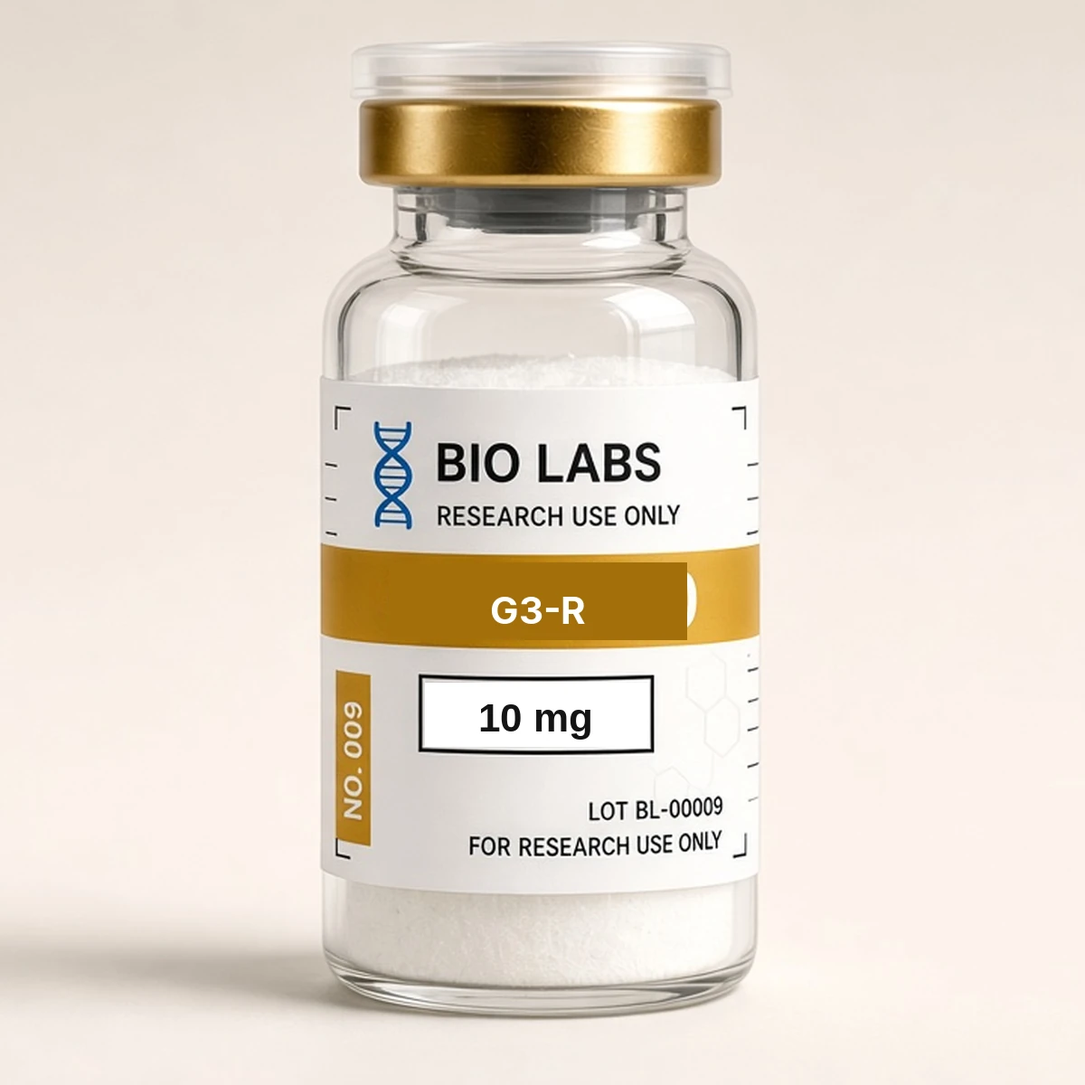
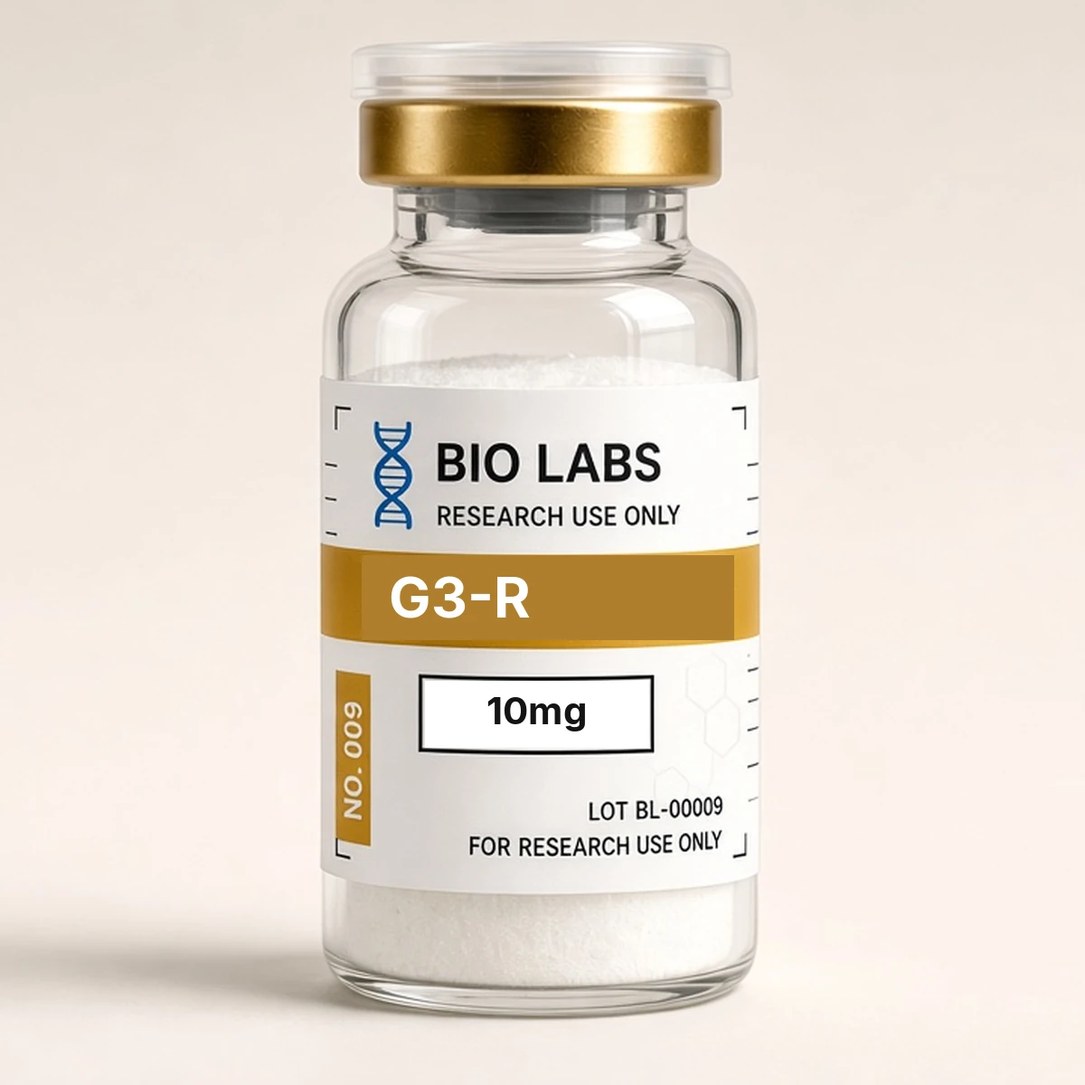
fix: GLOW-chrome G3-R band for Marketing Soft-QA
Indian Soft-QA: gold-band text on the live GLOW-chrome vial must be
G3-R (not R3TA/Retatrutide). Catalog/PDP master and 10/20/50 dose
variants are rebuilt from the GLOW-70 chrome (gold cap, BIO LABS,
gold band). Public path is vial-g3-r.png/.webp — no vial-retatrutide
public band.

PDP size-chip and mg-picker keep alt G3-R {dose} research vial.
Tip stays v2.99c (folded with calculator-seo-finish). Asset ?v=184.

Shared-script cache bust only: mg-picker, qty-upsell, cart-vial,
search-overlay, product-marquee.

Changed region(s): [[0.3083, 0.4933, 0.6783, 0.6167], [0.4317, 0.6475, 0.555, 0.6783]]

diff --git a/html/index.html b/html/index.html
@@ -205,7 +205,7 @@
 <article class="product-card" data-name="Ipamorelin" data-slug="ipamorelin" data-price="80" data-stock="in" data-docs="on-request" data-category="Cellular Signaling Research" data-badge="New"><div class="product-card-media" data-href="/products/ipamorelin"><div class="product-card-badge">New</div><div class="product-card-img"><img sizes="(max-width: 800px) 45vw, 200px" src="/media/vial-ipamorelin.webp?v=181" alt="Ipamorelin 10 mg research vial" loading="lazy" decoding="async" width="400" height="400" onerror="this.onerror=null;this.src='/media/vial-fallback.webp';"></div></div><div class="product-card-body"><p class="product-card-cat">Cellular Signaling Research</p><a class="product-card-name" href="/products/ipamorelin" title="Ipamorelin">Ipamorelin</a><div class="product-card-strengths"><span class="product-card-mg size-chip dose-chip">10 mg</span></div><p class="product-card-tagline" title="Selective GHRP Research Peptide">Selective GHRP Research Peptide</p><div class="product-card-row"><div class="product-card-prices"><span class="product-card-price">$80</span></div></div><p class="product-card-trust"><span class="product-card-trust-item"><svg class="product-card-trust-ico" viewBox="0 0 16 16" width="14" height="14" aria-hidden="true"><circle cx="8" cy="8" r="6.25" fill="none" stroke="currentColor" stroke-width="1.4"/><path fill="none" stroke="currentColor" stroke-width="1.4" stroke-linecap="round" stroke-linejoin="round" d="M5 8.1l2.1 2.1L11.2 5.8"/></svg><span>COA on request</span></span><span class="product-card-trust-item"><svg class="product-card-trust-ico" viewBox="0 0 16 16" width="14" height="14" aria-hidden="true"><circle cx="8" cy="8" r="6.25" fill="none" stroke="currentColor" stroke-width="1.4"/><path fill="none" stroke="currentColor" stroke-width="1.4" stroke-linecap="round" stroke-linejoin="round" d="M5 8.1l2.1 2.1L11.2 5.8"/></svg><span>Lot-specific</span></span></p><div class="product-card-actions"><a class="product-card-view" href="/products/ipamorelin">View details<svg class="product-card-view-ico" viewBox="0 0 16 16" width="14" height="14" aria-hidden="true"><path fill="none" stroke="currentColor" stroke-width="1.6" stroke-linecap="round" stroke-linejoin="round" d="M6 3.5L11 8l-5 4.5"/></svg></a><button type="button" class="product-card-atc" data-name="Ipamorelin" data-price="80" data-img="/media/vial-ipamorelin.png?v=181" data-slug="ipamorelin"><svg class="product-card-atc-ico" viewBox="0 0 24 24" width="15" height="15" aria-hidden="true"><path fill="none" stroke="currentColor" stroke-width="1.8" stroke-linecap="round" stroke-linejoin="round" d="M6 6h15l-1.5 9h-12L5 3H2"/><circle cx="9" cy="20" r="1.4" fill="currentColor"/><circle cx="18" cy="20" r="1.4" fill="currentColor"/></svg>ADD TO CART</button></div></div></article>
 <article class="product-card" data-name="Semaglutide" data-slug="semaglutide" data-price="60" data-stock="in" data-docs="on-request" data-category="Metabolic Research" data-badge="New"><div class="product-card-media" data-href="/products/semaglutide"><div class="product-card-badge">New</div><div class="product-card-img"><img sizes="(max-width: 800px) 45vw, 200px" src="/media/vial-semaglutide.webp?v=175" alt="Semaglutide 5 mg research vial" loading="lazy" decoding="async" width="400" height="400" onerror="this.onerror=null;this.src='/media/vial-fallback.webp';"></div></div><div class="product-card-body"><p class="product-card-cat">Metabolic Research</p><a class="product-card-name" href="/products/semaglutide" title="Semaglutide">Semaglutide</a><div class="product-card-strengths"><span class="product-card-mg size-chip dose-chip">5 mg</span><span class="product-card-mg size-chip dose-chip">10 mg</span></div><p class="product-card-tagline" title="Incretin-Pathway Research Peptide">Incretin-Pathway Research Peptide</p><div class="product-card-row"><div class="product-card-prices"><span class="product-card-from">From</span> <span class="product-card-price">$60</span></div></div><p class="product-card-trust"><span class="product-card-trust-item"><svg class="product-card-trust-ico" viewBox="0 0 16 16" width="14" height="14" aria-hidden="true"><circle cx="8" cy="8" r="6.25" fill="none" stroke="currentColor" stroke-width="1.4"/><path fill="none" stroke="currentColor" stroke-width="1.4" stroke-linecap="round" stroke-linejoin="round" d="M5 8.1l2.1 2.1L11.2 5.8"/></svg><span>COA on request</span></span><span class="product-card-trust-item"><svg class="product-card-trust-ico" viewBox="0 0 16 16" width="14" height="14" aria-hidden="true"><circle cx="8" cy="8" r="6.25" fill="none" stroke="currentColor" stroke-width="1.4"/><path fill="none" stroke="currentColor" stroke-width="1.4" stroke-linecap="round" stroke-linejoin="round" d="M5 8.1l2.1 2.1L11.2 5.8"/></svg><span>Lot-specific</span></span></p><div class="product-card-actions"><a class="product-card-view" href="/products/semaglutide">View details<svg class="product-card-view-ico" viewBox="0 0 16 16" width="14" height="14" aria-hidden="true"><path fill="none" stroke="currentColor" stroke-width="1.6" stroke-linecap="round" stroke-linejoin="round" d="M6 3.5L11 8l-5 4.5"/></svg></a><button type="button" class="product-card-atc" data-name="Semaglutide" data-price="60" data-img="/media/vial-semaglutide.png?v=175" data-slug="semaglutide"><svg class="product-card-atc-ico" viewBox="0 0 24 24" width="15" height="15" aria-hidden="true"><path fill="none" stroke="currentColor" stroke-width="1.8" stroke-linecap="round" stroke-linejoin="round" d="M6 6h15l-1.5 9h-12L5 3H2"/><circle cx="9" cy="20" r="1.4" fill="currentColor"/><circle cx="18" cy="20" r="1.4" fill="currentColor"/></svg>ADD TO CART</button></div></div></article>
 <article class="product-card" data-name="Tirzepatide" data-slug="tirzepatide" data-price="90" data-stock="in" data-docs="on-request" data-category="Metabolic Research" data-badge="New"><div class="product-card-media" data-href="/products/tirzepatide"><div class="product-card-badge">New</div><div class="product-card-img"><img sizes="(max-width: 800px) 45vw, 200px" src="/media/vial-tirzepatide.webp?v=175" alt="Tirzepatide 10 mg research vial" loading="lazy" decoding="async" width="400" height="400" onerror="this.onerror=null;this.src='/media/vial-fallback.webp';"></div></div><div class="product-card-body"><p class="product-card-cat">Metabolic Research</p><a class="product-card-name" href="/products/tirzepatide" title="Tirzepatide">Tirzepatide</a><div class="product-card-strengths"><span class="product-card-mg size-chip dose-chip">10 mg</span></div><p class="product-card-tagline" title="Dual Incretin Receptor Research Agonist">Dual Incretin Receptor Research Agonist</p><div class="product-card-row"><div class="product-card-prices"><span class="product-card-price">$90</span></div></div><p class="product-card-trust"><span class="product-card-trust-item"><svg class="product-card-trust-ico" viewBox="0 0 16 16" width="14" height="14" aria-hidden="true"><circle cx="8" cy="8" r="6.25" fill="none" stroke="currentColor" stroke-width="1.4"/><path fill="none" stroke="currentColor" stroke-width="1.4" stroke-linecap="round" stroke-linejoin="round" d="M5 8.1l2.1 2.1L11.2 5.8"/></svg><span>COA on request</span></span><span class="product-card-trust-item"><svg class="product-card-trust-ico" viewBox="0 0 16 16" width="14" height="14" aria-hidden="true"><circle cx="8" cy="8" r="6.25" fill="none" stroke="currentColor" stroke-width="1.4"/><path fill="none" stroke="currentColor" stroke-width="1.4" stroke-linecap="round" stroke-linejoin="round" d="M5 8.1l2.1 2.1L11.2 5.8"/></svg><span>Lot-specific</span></span></p><div class="product-card-actions"><a class="product-card-view" href="/products/tirzepatide">View details<svg class="product-card-view-ico" viewBox="0 0 16 16" width="14" height="14" aria-hidden="true"><path fill="none" stroke="currentColor" stroke-width="1.6" stroke-linecap="round" stroke-linejoin="round" d="M6 3.5L11 8l-5 4.5"/></svg></a><button type="button" class="product-card-atc" data-name="Tirzepatide" data-price="90" data-img="/media/vial-tirzepatide.png?v=175" data-slug="tirzepatide"><svg class="product-card-atc-ico" viewBox="0 0 24 24" width="15" height="15" aria-hidden="true"><path fill="none" stroke="currentColor" stroke-width="1.8" stroke-linecap="round" stroke-linejoin="round" d="M6 6h15l-1.5 9h-12L5 3H2"/><circle cx="9" cy="20" r="1.4" fill="currentColor"/><circle cx="18" cy="20" r="1.4" fill="currentColor"/></svg>ADD TO CART</button></div></div></article>
-<article class="product-card" data-name="G3-R" data-slug="g3-r" data-price="85" data-stock="out" data-docs="on-request" data-badge="New"><div class="product-card-media" data-href="/products/g3-r"><div class="product-card-badge">New</div><div class="product-card-img"><img sizes="(max-width: 800px) 45vw, 200px" src="/media/vial-g3-r.webp?v=183" alt="G3-R 10 mg research vial" loading="lazy" decoding="async" width="400" height="400" onerror="this.onerror=null;this.src='/media/vial-fallback.webp';"></div></div><div class="product-card-body"><p class="product-card-cat product-card-cat-spacer" aria-hidden="true">&nbsp;</p><a class="product-card-name" href="/products/g3-r" title="G3-R">G3-R</a><div class="product-card-strengths"><span class="product-card-mg size-chip dose-chip">10 mg</span><span class="product-card-mg size-chip dose-chip">20 mg</span><span class="product-card-mg size-chip dose-chip">50 mg</span></div><p class="product-card-tagline" title="Triple receptor agonist">Triple receptor agonist</p><div class="product-card-row"><div class="product-card-prices"><span class="product-card-from">From</span> <span class="product-card-price">$85</span></div></div><p class="product-card-trust"><span class="product-card-trust-item"><svg class="product-card-trust-ico" viewBox="0 0 16 16" width="14" height="14" aria-hidden="true"><circle cx="8" cy="8" r="6.25" fill="none" stroke="currentColor" stroke-width="1.4"/><path fill="none" stroke="currentColor" stroke-width="1.4" stroke-linecap="round" stroke-linejoin="round" d="M5 8.1l2.1 2.1L11.2 5.8"/></svg><span>COA on request</span></span><span class="product-card-trust-item"><svg class="product-card-trust-ico" viewBox="0 0 16 16" width="14" height="14" aria-hidden="true"><circle cx="8" cy="8" r="6.25" fill="none" stroke="currentColor" stroke-width="1.4"/><path fill="none" stroke="currentColor" stroke-width="1.4" stroke-linecap="round" stroke-linejoin="round" d="M5 8.1l2.1 2.1L11.2 5.8"/></svg><span>Lot-specific</span></span></p><div class="product-card-actions"><a class="product-card-view" href="/products/g3-r">View details<svg class="product-card-view-ico" viewBox="0 0 16 16" width="14" height="14" aria-hidden="true"><path fill="none" stroke="currentColor" stroke-width="1.6" stroke-linecap="round" stroke-linejoin="round" d="M6 3.5L11 8l-5 4.5"/></svg></a><button type="button" class="product-card-atc" data-name="G3-R" data-price="85" data-img="/media/vial-g3-r.png?v=183" data-slug="g3-r"><svg class="product-card-atc-ico" viewBox="0 0 24 24" width="15" height="15" aria-hidden="true"><path fill="none" stroke="currentColor" stroke-width="1.8" stroke-linecap="round" stroke-linejoin="round" d="M6 6h15l-1.5 9h-12L5 3H2"/><circle cx="9" cy="20" r="1.4" fill="currentColor"/><circle cx="18" cy="20" r="1.4" fill="currentColor"/></svg>ADD TO CART</button></div></div></article><article class="product-card" data-name="BPC-157 / TB-500 Blend" data-slug="bpc-157-tb-500-blend" data-price="125" data-stock="in" data-docs="on-request" data-category="Cellular Signaling Research" data-badge="Best Seller"><div class="product-card-media" data-href="/products/bpc-157-tb-500-blend"><div class="product-card-badge">Best Seller</div><div class="product-card-img"><img sizes="(max-width: 800px) 45vw, 200px" src="/media/vial-bpc-157-tb-500-blend.webp?v=181" alt="BPC-157 / TB-500 Blend 20 mg research vial" loading="lazy" decoding="async" width="400" height="400" onerror="this.onerror=null;this.src='/media/vial-fallback.webp';"></div></div><div class="product-card-body"><p class="product-card-cat">Cellular Signaling Research</p><a class="product-card-name" href="/products/bpc-157-tb-500-blend" title="BPC-157 / TB-500 Blend">BPC-157 / TB-500 Blend</a><div class="product-card-strengths"><span class="product-card-mg size-chip dose-chip">20 mg</span></div><p class="product-card-tagline" title="Dual-peptide signaling blend">Dual-peptide signaling blend</p><div class="product-card-row"><div class="product-card-prices"><span class="product-card-price">$125</span></div></div><p class="product-card-trust"><span class="product-card-trust-item"><svg class="product-card-trust-ico" viewBox="0 0 16 16" width="14" height="14" aria-hidden="true"><circle cx="8" cy="8" r="6.25" fill="none" stroke="currentColor" stroke-width="1.4"/><path fill="none" stroke="currentColor" stroke-width="1.4" stroke-linecap="round" stroke-linejoin="round" d="M5 8.1l2.1 2.1L11.2 5.8"/></svg><span>COA on request</span></span><span class="product-card-trust-item"><svg class="product-card-trust-ico" viewBox="0 0 16 16" width="14" height="14" aria-hidden="true"><circle cx="8" cy="8" r="6.25" fill="none" stroke="currentColor" stroke-width="1.4"/><path fill="none" stroke="currentColor" stroke-width="1.4" stroke-linecap="round" stroke-linejoin="round" d="M5 8.1l2.1 2.1L11.2 5.8"/></svg><span>Lot-specific</span></span></p><div class="product-card-actions"><a class="product-card-view" href="/products/bpc-157-tb-500-blend">View details<svg class="product-card-view-ico" viewBox="0 0 16 16" width="14" height="14" aria-hidden="true"><path fill="none" stroke="currentColor" stroke-width="1.6" stroke-linecap="round" stroke-linejoin="round" d="M6 3.5L11 8l-5 4.5"/></svg></a><button type="button" class="product-card-atc" data-name="BPC-157 / TB-500 Blend" data-price="125" data-img="/media/vial-bpc-157-tb-500-blend.png?v=181" data-slug="bpc-157-tb-500-blend"><svg class="product-card-atc-ico" viewBox="0 0 24 24" width="15" height="15" aria-hidden="true"><path fill="none" stroke="currentColor" stroke-width="1.8" stroke-linecap="round" stroke-linejoin="round" d="M6 6h15l-1.5 9h-12L5 3H2"/><circle cx="9" cy="20" r="1.4" fill="currentColor"/><circle cx="18" cy="20" r="1.4" fill="currentColor"/></svg>ADD TO CART</button></div></div></article>
+<article class="product-card" data-name="G3-R" data-slug="g3-r" data-price="85" data-stock="out" data-docs="on-request" data-badge="New"><div class="product-card-media" data-href="/products/g3-r"><div class="product-card-badge">New</div><div class="product-card-img"><img sizes="(max-width: 800px) 45vw, 200px" src="/media/vial-g3-r.webp?v=184" alt="G3-R 10 mg research vial" loading="lazy" decoding="async" width="400" height="400" onerror="this.onerror=null;this.src='/media/vial-fallback.webp';"></div></div><div class="product-card-body"><p class="product-card-cat product-card-cat-spacer" aria-hidden="true">&nbsp;</p><a class="product-card-name" href="/products/g3-r" title="G3-R">G3-R</a><div class="product-card-strengths"><span class="product-card-mg size-chip dose-chip">10 mg</span><span class="product-card-mg size-chip dose-chip">20 mg</span><span class="product-card-mg size-chip dose-chip">50 mg</span></div><p class="product-card-tagline" title="Triple receptor agonist">Triple receptor agonist</p><div class="product-card-row"><div class="product-card-prices"><span class="product-card-from">From</span> <span class="product-card-price">$85</span></div></div><p class="product-card-trust"><span class="product-card-trust-item"><svg class="product-card-trust-ico" viewBox="0 0 16 16" width="14" height="14" aria-hidden="true"><circle cx="8" cy="8" r="6.25" fill="none" stroke="currentColor" stroke-width="1.4"/><path fill="none" stroke="currentColor" stroke-width="1.4" stroke-linecap="round" stroke-linejoin="round" d="M5 8.1l2.1 2.1L11.2 5.8"/></svg><span>COA on request</span></span><span class="product-card-trust-item"><svg class="product-card-trust-ico" viewBox="0 0 16 16" width="14" height="14" aria-hidden="true"><circle cx="8" cy="8" r="6.25" fill="none" stroke="currentColor" stroke-width="1.4"/><path fill="none" stroke="currentColor" stroke-width="1.4" stroke-linecap="round" stroke-linejoin="round" d="M5 8.1l2.1 2.1L11.2 5.8"/></svg><span>Lot-specific</span></span></p><div class="product-card-actions"><a class="product-card-view" href="/products/g3-r">View details<svg class="product-card-view-ico" viewBox="0 0 16 16" width="14" height="14" aria-hidden="true"><path fill="none" stroke="currentColor" stroke-width="1.6" stroke-linecap="round" stroke-linejoin="round" d="M6 3.5L11 8l-5 4.5"/></svg></a><button type="button" class="product-card-atc" data-name="G3-R" data-price="85" data-img="/media/vial-g3-r.png?v=184" data-slug="g3-r"><svg class="product-card-atc-ico" viewBox="0 0 24 24" width="15" height="15" aria-hidden="true"><path fill="none" stroke="currentColor" stroke-width="1.8" stroke-linecap="round" stroke-linejoin="round" d="M6 6h15l-1.5 9h-12L5 3H2"/><circle cx="9" cy="20" r="1.4" fill="currentColor"/><circle cx="18" cy="20" r="1.4" fill="currentColor"/></svg>ADD TO CART</button></div></div></article><article class="product-card" data-name="BPC-157 / TB-500 Blend" data-slug="bpc-157-tb-500-blend" data-price="125" data-stock="in" data-docs="on-request" data-category="Cellular Signaling Research" data-badge="Best Seller"><div class="product-card-media" data-href="/products/bpc-157-tb-500-blend"><div class="product-card-badge">Best Seller</div><div class="product-card-img"><img sizes="(max-width: 800px) 45vw, 200px" src="/media/vial-bpc-157-tb-500-blend.webp?v=181" alt="BPC-157 / TB-500 Blend 20 mg research vial" loading="lazy" decoding="async" width="400" height="400" onerror="this.onerror=null;this.src='/media/vial-fallback.webp';"></div></div><div class="product-card-body"><p class="product-card-cat">Cellular Signaling Research</p><a class="product-card-name" href="/products/bpc-157-tb-500-blend" title="BPC-157 / TB-500 Blend">BPC-157 / TB-500 Blend</a><div class="product-card-strengths"><span class="product-card-mg size-chip dose-chip">20 mg</span></div><p class="product-card-tagline" title="Dual-peptide signaling blend">Dual-peptide signaling blend</p><div class="product-card-row"><div class="product-card-prices"><span class="product-card-price">$125</span></div></div><p class="product-card-trust"><span class="product-card-trust-item"><svg class="product-card-trust-ico" viewBox="0 0 16 16" width="14" height="14" aria-hidden="true"><circle cx="8" cy="8" r="6.25" fill="none" stroke="currentColor" stroke-width="1.4"/><path fill="none" stroke="currentColor" stroke-width="1.4" stroke-linecap="round" stroke-linejoin="round" d="M5 8.1l2.1 2.1L11.2 5.8"/></svg><span>COA on request</span></span><span class="product-card-trust-item"><svg class="product-card-trust-ico" viewBox="0 0 16 16" width="14" height="14" aria-hidden="true"><circle cx="8" cy="8" r="6.25" fill="none" stroke="currentColor" stroke-width="1.4"/><path fill="none" stroke="currentColor" stroke-width="1.4" stroke-linecap="round" stroke-linejoin="round" d="M5 8.1l2.1 2.1L11.2 5.8"/></svg><span>Lot-specific</span></span></p><div class="product-card-actions"><a class="product-card-view" href="/products/bpc-157-tb-500-blend">View details<svg class="product-card-view-ico" viewBox="0 0 16 16" width="14" height="14" aria-hidden="true"><path fill="none" stroke="currentColor" stroke-width="1.6" stroke-linecap="round" stroke-linejoin="round" d="M6 3.5L11 8l-5 4.5"/></svg></a><button type="button" class="product-card-atc" data-name="BPC-157 / TB-500 Blend" data-price="125" data-img="/media/vial-bpc-157-tb-500-blend.png?v=181" data-slug="bpc-157-tb-500-blend"><svg class="product-card-atc-ico" viewBox="0 0 24 24" width="15" height="15" aria-hidden="true"><path fill="none" stroke="currentColor" stroke-width="1.8" stroke-linecap="round" stroke-linejoin="round" d="M6 6h15l-1.5 9h-12L5 3H2"/><circle cx="9" cy="20" r="1.4" fill="currentColor"/><circle cx="18" cy="20" r="1.4" fill="currentColor"/></svg>ADD TO CART</button></div></div></article>
 <article class="product-card" data-name="NAD+" data-slug="nad-plus" data-price="99" data-stock="in" data-docs="on-request" data-category="Biochemical Reference Standards" data-badge="Popular"><div class="product-card-media" data-href="/products/nad-plus"><div class="product-card-badge">Popular</div><div class="product-card-img"><img sizes="(max-width: 800px) 45vw, 200px" src="/media/vial-nad-plus.webp?v=181" alt="NAD+ 500 mg research vial" loading="lazy" decoding="async" width="400" height="400" onerror="this.onerror=null;this.src='/media/vial-fallback.webp';"></div></div><div class="product-card-body"><p class="product-card-cat">Biochemical Reference Standards</p><a class="product-card-name" href="/products/nad-plus" title="NAD+">NAD+</a><div class="product-card-strengths"><span class="product-card-mg size-chip dose-chip">500 mg</span><span class="product-card-mg size-chip dose-chip">1000 mg</span></div><p class="product-card-tagline" title="Mitochondrial Energy Coenzyme">Mitochondrial Energy Coenzyme</p><div class="product-card-row"><div class="product-card-prices"><span class="product-card-from">From</span> <span class="product-card-price">$99</span></div></div><p class="product-card-trust"><span class="product-card-trust-item"><svg class="product-card-trust-ico" viewBox="0 0 16 16" width="14" height="14" aria-hidden="true"><circle cx="8" cy="8" r="6.25" fill="none" stroke="currentColor" stroke-width="1.4"/><path fill="none" stroke="currentColor" stroke-width="1.4" stroke-linecap="round" stroke-linejoin="round" d="M5 8.1l2.1 2.1L11.2 5.8"/></svg><span>COA on request</span></span><span class="product-card-trust-item"><svg class="product-card-trust-ico" viewBox="0 0 16 16" width="14" height="14" aria-hidden="true"><circle cx="8" cy="8" r="6.25" fill="none" stroke="currentColor" stroke-width="1.4"/><path fill="none" stroke="currentColor" stroke-width="1.4" stroke-linecap="round" stroke-linejoin="round" d="M5 8.1l2.1 2.1L11.2 5.8"/></svg><span>Lot-specific</span></span></p><div class="product-card-actions"><a class="product-card-view" href="/products/nad-plus">View details<svg class="product-card-view-ico" viewBox="0 0 16 16" width="14" height="14" aria-hidden="true"><path fill="none" stroke="currentColor" stroke-width="1.6" stroke-linecap="round" stroke-linejoin="round" d="M6 3.5L11 8l-5 4.5"/></svg></a><button type="button" class="product-card-atc" data-name="NAD+" data-price="99" data-img="/media/vial-nad-plus.png?v=181" data-slug="nad-plus"><svg class="product-card-atc-ico" viewBox="0 0 24 24" width="15" height="15" aria-hidden="true"><path fill="none" stroke="currentColor" stroke-width="1.8" stroke-linecap="round" stroke-linejoin="round" d="M6 6h15l-1.5 9h-12L5 3H2"/><circle cx="9" cy="20" r="1.4" fill="currentColor"/><circle cx="18" cy="20" r="1.4" fill="currentColor"/></svg>ADD TO CART</button></div></div></article>
 <article class="product-card" data-name="AOD-9604" data-slug="aod-9604" data-price="42" data-stock="in" data-docs="on-request" data-category="Metabolic Pathway Research"><div class="product-card-media" data-href="/products/aod-9604"><div class="product-card-img"><img sizes="(max-width: 800px) 45vw, 200px" src="/media/vial-aod-9604.webp?v=181" alt="AOD-9604 5 mg research vial" loading="lazy" decoding="async" width="400" height="400" onerror="this.onerror=null;this.src='/media/vial-fallback.webp';"></div></div><div class="product-card-body"><p class="product-card-cat">Metabolic Pathway Research</p><a class="product-card-name" href="/products/aod-9604" title="AOD-9604">AOD-9604</a><div class="product-card-strengths"><span class="product-card-mg size-chip dose-chip">5 mg</span><span class="product-card-mg size-chip dose-chip">10 mg</span></div><p class="product-card-tagline" title="Metabolic Fragment Reagent">Metabolic Fragment Reagent</p><div class="product-card-row"><div class="product-card-prices"><span class="product-card-from">From</span> <span class="product-card-price">$42</span></div></div><p class="product-card-trust"><span class="product-card-trust-item"><svg class="product-card-trust-ico" viewBox="0 0 16 16" width="14" height="14" aria-hidden="true"><circle cx="8" cy="8" r="6.25" fill="none" stroke="currentColor" stroke-width="1.4"/><path fill="none" stroke="currentColor" stroke-width="1.4" stroke-linecap="round" stroke-linejoin="round" d="M5 8.1l2.1 2.1L11.2 5.8"/></svg><span>COA on request</span></span><span class="product-card-trust-item"><svg class="product-card-trust-ico" viewBox="0 0 16 16" width="14" height="14" aria-hidden="true"><circle cx="8" cy="8" r="6.25" fill="none" stroke="currentColor" stroke-width="1.4"/><path fill="none" stroke="currentColor" stroke-width="1.4" stroke-linecap="round" stroke-linejoin="round" d="M5 8.1l2.1 2.1L11.2 5.8"/></svg><span>Lot-specific</span></span></p><div class="product-card-actions"><a class="product-card-view" href="/products/aod-9604">View details<svg class="product-card-view-ico" viewBox="0 0 16 16" width="14" height="14" aria-hidden="true"><path fill="none" stroke="currentColor" stroke-width="1.6" stroke-linecap="round" stroke-linejoin="round" d="M6 3.5L11 8l-5 4.5"/></svg></a><button type="button" class="product-card-atc" data-name="AOD-9604" data-price="42" data-img="/media/vial-aod-9604.png?v=181" data-slug="aod-9604"><svg class="product-card-atc-ico" viewBox="0 0 24 24" width="15" height="15" aria-hidden="true"><path fill="none" stroke="currentColor" stroke-width="1.8" stroke-linecap="round" stroke-linejoin="round" d="M6 6h15l-1.5 9h-12L5 3H2"/><circle cx="9" cy="20" r="1.4" fill="currentColor"/><circle cx="18" cy="20" r="1.4" fill="currentColor"/></svg>ADD TO CART</button></div></div></article>
 <article class="product-card" data-name="Curcumin Phytosome" data-slug="curcumin-phytosome" data-price="109" data-stock="in" data-docs="on-request" data-category="Molecular Reagents" data-badge="New"><div class="product-card-media" data-href="/products/curcumin-phytosome"><div class="product-card-badge">New</div><div class="product-card-img"><img sizes="(max-width: 800px) 45vw, 200px" src="/media/vial-curcumin-phytosome.webp?v=181" alt="Curcumin Phytosome 500 mg research vial" loading="lazy" decoding="async" width="400" height="400" onerror="this.onerror=null;this.src='/media/vial-fallback.webp';"></div></div><div class="product-card-body"><p class="product-card-cat">Molecular Reagents</p><a class="product-card-name" href="/products/curcumin-phytosome" title="Curcumin Phytosome">Curcumin Phytosome</a><div class="product-card-strengths"><span class="product-card-mg size-chip dose-chip">500 mg</span></div><p class="product-card-tagline" title="Polyphenol Research Formulation">Polyphenol Research Formulation</p><div class="product-card-row"><div class="product-card-prices"><span class="product-card-price">$109</span></div></div><p class="product-card-trust"><span class="product-card-trust-item"><svg class="product-card-trust-ico" viewBox="0 0 16 16" width="14" height="14" aria-hidden="true"><circle cx="8" cy="8" r="6.25" fill="none" stroke="currentColor" stroke-width="1.4"/><path fill="none" stroke="currentColor" stroke-width="1.4" stroke-linecap="round" stroke-linejoin="round" d="M5 8.1l2.1 2.1L11.2 5.8"/></svg><span>COA on request</span></span><span class="product-card-trust-item"><svg class="product-card-trust-ico" viewBox="0 0 16 16" width="14" height="14" aria-hidden="true"><circle cx="8" cy="8" r="6.25" fill="none" stroke="currentColor" stroke-width="1.4"/><path fill="none" stroke="currentColor" stroke-width="1.4" stroke-linecap="round" stroke-linejoin="round" d="M5 8.1l2.1 2.1L11.2 5.8"/></svg><span>Lot-specific</span></span></p><div class="product-card-actions"><a class="product-card-view" href="/products/curcumin-phytosome">View details<svg class="product-card-view-ico" viewBox="0 0 16 16" width="14" height="14" aria-hidden="true"><path fill="none" stroke="currentColor" stroke-width="1.6" stroke-linecap="round" stroke-linejoin="round" d="M6 3.5L11 8l-5 4.5"/></svg></a><button type="button" class="product-card-atc" data-name="Curcumin Phytosome" data-price="109" data-img="/media/vial-curcumin-phytosome.png?v=181" data-slug="curcumin-phytosome"><svg class="product-card-atc-ico" viewBox="0 0 24 24" width="15" height="15" aria-hidden="true"><path fill="none" stroke="currentColor" stroke-width="1.8" stroke-linecap="round" stroke-linejoin="round" d="M6 6h15l-1.5 9h-12L5 3H2"/><circle cx="9" cy="20" r="1.4" fill="currentColor"/><circle cx="18" cy="20" r="1.4" fill="currentColor"/></svg>ADD TO CART</button></div></div></article>
@@ -1224,7 +1224,7 @@ document.getElementById('cartCount').textContent = String(Math.max(0, cart.reduc
     list.forEach(function(p) {
       var href = SLUG_MAP[p.slug] || ('/products/' + p.slug);
       var _qa5 = { 'bpc-157-tb-500-blend':1, 'aod-9604':1, 'ghk-cu':1, 'ipamorelin':1, 'tesamorelin':1, 'glow-70':1, 'tesamorelin-ipamorelin':1, 'nad-plus':1, 'bpc-157':1, 'curcumin-phytosome':1, 'epithalon':1, 'mots-c':1, 'kpv':1, 'semax':1, 'kisspeptin-10':1, 'thymosin-alpha-1':1, 'tb-500':1, 'g3-r':1, 'retatrutide':1, 'r3ta':1 };
-      var _bust = (p.slug === 'g3-r' || p.slug === 'retatrutide' || p.slug === 'r3ta') ? '?v=183' : (_qa5[p.slug] ? '?v=181' : '?v=175');
+      var _bust = (p.slug === 'g3-r' || p.slug === 'retatrutide' || p.slug === 'r3ta') ? '?v=184' : (_qa5[p.slug] ? '?v=181' : '?v=175');
       var vial = (p.image_url && String(p.image_url).indexOf('/media/')===0) ? String(p.image_url).replace(/\?v=\d+/, _bust) : ('/media/vial-' + p.slug + '.webp' + _bust);
       vial = vial.replace(/vial-retatrutide/g, 'vial-g3-r').replace(/vial-r3ta/g, 'vial-g3-r');
       if (vial.indexOf('?v=')===-1 && vial.indexOf('/media/')===0) vial += _bust;

diff --git a/html/products/g3-r.html b/html/products/g3-r.html
@@ -23,7 +23,7 @@
 <meta name="twitter:title" content="G3-R 10 mg — BioLabs Research">
 <meta name="twitter:description" content="G3-R is listed as a laboratory research compound in 10 mg, 20 mg, and 50 mg vials. Lot papers on request. Investigational laboratory context only.">
 <meta name="twitter:image" content="https://biolabsresearch.co/media/og-share.jpg">
-<script type="application/ld+json" id="product-jsonld">{"@context": "https://schema.org", "@type": "Product", "name": "G3-R", "image": "https://biolabsresearch.co/media/vial-g3-r.png?v=183", "description": "G3-R is a research-use-only (RUO) laboratory reagent in the BioLabs Research inquiry catalog. Investigational triple GLP-1/GIP/glucagon receptor agonist studied in metabolic research models. Available vial strengths include 10mg, 20mg, 50mg. Lot documentation (COA) is available on request. Not for human consumption or therapeutic use. Product page: https://biolabsresearch.co/products/g3-r", "sku": "g3-r", "brand": {"@type": "Brand", "name": "BioLabs Research"}, "manufacturer": {"@type": "Organization", "name": "LEEDS MARKETING GROUP LTD"}, "offers": {"@type": "Offer", "url": "https://biolabsresearch.co/products/g3-r", "priceCurrency": "USD", "price": "85", "availability": "https://schema.org/InStock"}, "url": "https://biolabsresearch.co/products/g3-r", "additionalProperty": [{"@type": "PropertyValue", "name": "CAS", "value": "2381089-83-2"}]}</script>
+<script type="application/ld+json" id="product-jsonld">{"@context": "https://schema.org", "@type": "Product", "name": "G3-R", "image": "https://biolabsresearch.co/media/vial-g3-r.png?v=184", "description": "G3-R is a research-use-only (RUO) laboratory reagent in the BioLabs Research inquiry catalog. Investigational triple GLP-1/GIP/glucagon receptor agonist studied in metabolic research models. Available vial strengths include 10mg, 20mg, 50mg. Lot documentation (COA) is available on request. Not for human consumption or therapeutic use. Product page: https://biolabsresearch.co/products/g3-r", "sku": "g3-r", "brand": {"@type": "Brand", "name": "BioLabs Research"}, "manufacturer": {"@type": "Organization", "name": "LEEDS MARKETING GROUP LTD"}, "offers": {"@type": "Offer", "url": "https://biolabsresearch.co/products/g3-r", "priceCurrency": "USD", "price": "85", "availability": "https://schema.org/InStock"}, "url": "https://biolabsresearch.co/products/g3-r", "additionalProperty": [{"@type": "PropertyValue", "name": "CAS", "value": "2381089-83-2"}]}</script>
 <script type="application/ld+json" id="breadcrumb-jsonld">{"@context": "https://schema.org", "@type": "BreadcrumbList", "itemListElement": [{"@type": "ListItem", "position": 1, "name": "Home", "item": "https://biolabsresearch.co/"}, {"@type": "ListItem", "position": 2, "name": "Catalog", "item": "https://biolabsresearch.co/#catalog"}, {"@type": "ListItem", "position": 3, "name": "G3-R", "item": "https://biolabsresearch.co/products/g3-r"}]}</script>
 
 <link href="https://fonts.googleapis.com/css2?family=Inter:wght@400;500;600;700&family=Fraunces:opsz,wght@9..144,500;9..144,600&display=swap" rel="stylesheet">
@@ -280,7 +280,7 @@ footer{background:var(--ink);padding:60px 60px 30px}
 <div class="product-hero pdp-split product-page">
         <div class="product-img-section">
 <div class="product-img-main">
-            <img id="pdpMainImg" src="/media/vial-g3-r.webp?v=183" alt="G3-R 10 mg research vial" loading="eager" fetchpriority="high" decoding="async" width="400" height="500" onerror="this.onerror=null;this.src='/media/vial-fallback.webp';">
+            <img id="pdpMainImg" src="/media/vial-g3-r.webp?v=184" alt="G3-R 10 mg research vial" loading="eager" fetchpriority="high" decoding="async" width="400" height="500" onerror="this.onerror=null;this.src='/media/vial-fallback.webp';">
           </div>
           </div>
         <div class="pdp-buy-col">
@@ -498,7 +498,7 @@ footer{background:var(--ink);padding:60px 60px 30px}
     applyProductSeo(p);
     /* Stage 2: keep unique static document.title */
     document.getElementById('breadcrumb-name').textContent = p.name;
-    var img = '/media/vial-g3-r.webp?v=183';
+    var img = '/media/vial-g3-r.webp?v=184';
     var sizes = parseSizeOptions(p.size_options);
     var sizeHtml = '';
     if (sizes.length > 1) {
@@ -601,7 +601,7 @@ storageHtml + presentationHtml +
     img.setAttribute('alt', img.alt);
   }
   document.addEventListener('click', function (e) {
-    var b = e.target && e.target.closest && e.target.closest('button[data-mg], .mg-btn');
+    var b = e.target && e.target.closest && e.target.closest('button[data-mg], .mg-btn, .size-btn');
     if (!b) return;
     var mg = b.getAttribute('data-mg') || b.textContent;
     window._pdpMg = mg;
@@ -612,6 +612,9 @@ storageHtml + presentationHtml +
     document.querySelectorAll('.size-btn').forEach(function(b){b.classList.remove('active');});
     btn.classList.add('active');
     if (price) { document.getElementById('current-price').textContent = price; var sp=document.getElementById('pdpStickyPrice'); if(sp) sp.textContent = price; }
+    var mg = (btn.getAttribute('data-mg') || btn.textContent || '').trim();
+    window._pdpMg = mg;
+    paintG3RAlt(mg);
   };
 })();
 </script>

diff --git a/html/cart-vial.js b/html/cart-vial.js
@@ -680,7 +680,7 @@ function productUrl(item){
 function vialImg(item){
   if (item && (item.gift || item.slug === 'research-solvent')) return '/media/research-solvent.png?v=2';
   var slug = productSlug(item);
-  return '/media/vial-'+(slug)+'.png?v='+(slug==='g3-r'?'183':'181');
+  return '/media/vial-'+(slug)+'.png?v='+(slug==='g3-r'?'184':'181');
 }
 var CART_SUGGEST = [
   {slug:'bpc-157', name:'BPC-157', price:88},
@@ -724,7 +724,7 @@ function addMoreHtml(cart){
     var mgSafe = d ? String(d.mg).replace(/[^0-9A-Za-z. ]/g, '') : '';
     var mgArg = mgSafe ? ',\'' + mgSafe + '\'' : '';
     html += '<div class="cart-addcard">' +
-      '<a href="/products/' + p.slug + '.html"><img src="/media/vial-' + p.slug + '.png?v=' + (p.slug === 'g3-r' ? '183' : '181') + '" alt="' + p.name + '" width="84" height="64"></a>' +
+      '<a href="/products/' + p.slug + '.html"><img src="/media/vial-' + p.slug + '.png?v=' + (p.slug === 'g3-r' ? '184' : '181') + '" alt="' + p.name + '" width="84" height="64"></a>' +
       '<div class="cart-addcard-name">' + p.name + '</div>' +
       '<div class="cart-addcard-price">' + (mgSafe ? _blrPrettyMg(mgSafe) + ' · ' : '') + '$' + price + '</div>' +
       '<button type="button" class="cart-addcard-btn" onclick="addSuggest(\'' + p.slug + '\',\'' + p.name.replace(/'/g,'') + '\',' + price + mgArg + ')">Add</button>' +
@@ -823,7 +823,7 @@ function addSuggest(slug, name, price, mg){
     var c = getCart();
     var ex = c.find(function(i){ return _sameCartLine(i, slug, name, mg); });
     if (ex) { ex.qty += 1; ex.name = _baseCartName(ex.name) || name; if (slug) ex.slug = slug; if (mg && !ex.mg) ex.mg = mg; }
-    else c.push({name:name, price:price, qty:1, slug:slug, mg:(mg || undefined), imageUrl:'/media/vial-'+(slug)+'.png?v='+(slug==='g3-r'?'183':'181')});
+    else c.push({name:name, price:price, qty:1, slug:slug, mg:(mg || undefined), imageUrl:'/media/vial-'+(slug)+'.png?v='+(slug==='g3-r'?'184':'181')});
     if (typeof saveCart === 'function') {
       try { saveCart(c); } catch (e) { try { saveCart(); } catch(e2){} }
     } else {
@@ -838,7 +838,7 @@ function addSuggest(slug, name, price, mg){
   if (typeof cart !== 'undefined') {
     var ex2 = cart.find(function(i){ return _sameCartLine(i, slug, name, mg); });
     if (ex2) { ex2.qty += 1; ex2.name = _baseCartName(ex2.name) || name; if (slug) ex2.slug = slug; if (mg && !ex2.mg) ex2.mg = mg; }
-    else cart.push({name:name, price:price, qty:1, slug:slug, mg:(mg || undefined), imageUrl:'/media/vial-'+(slug)+'.png?v='+(slug==='g3-r'?'183':'181')});
+    else cart.push({name:name, price:price, qty:1, slug:slug, mg:(mg || undefined), imageUrl:'/media/vial-'+(slug)+'.png?v='+(slug==='g3-r'?'184':'181')});
     if (typeof saveCart === 'function') saveCart();
     else _writeCartLS(cart);
     if (typeof updateBadge === 'function') updateBadge();

diff --git a/html/mg-picker.js b/html/mg-picker.js
@@ -44,7 +44,7 @@
     return n.replace("mg", " mg");
   }
   function fileFor(slug) {
-    return "/media/vial-" + slug + ".png?v=" + (slug === "g3-r" ? "183" : "181");
+    return "/media/vial-" + slug + ".png?v=" + (slug === "g3-r" ? "184" : "181");
   }
   function baseName(name) {
     return String(name || "").replace(/\s*\([^)]*mg[^)]*\)\s*$/i, "").trim();
@@ -133,7 +133,7 @@
       mainImg.src = src;
       /* Keep Marketing dose-aware alt after render + chip change: {Product} {dose} research vial
          Strip parenthetical brand e.g. (Meriva) so Soft-QA matches Marketing SoT.
-         ALT_BASE: display title may be brand short (G3-R) but Marketing alt wants full INN. */
+         ALT_BASE: G3-R is locked; do not fall back to an old INN/slug in the alt. */
       var nameEl = document.querySelector("h1.product-title");
       var name = ALT_BASE[slug] || (nameEl ? nameEl.textContent.trim() : "");
       name = String(name || "").replace(/\s*\([^)]*\)\s*/g, " ").replace(/\s+/g, " ").trim();

diff --git a/html/blog/index.html b/html/blog/index.html
@@ -315,7 +315,7 @@
   </div>
 </a>
 <a href="/blog/g3-r-metabolic-research" class="blog-card" data-tag="Research" data-title="g3-r identity & storage" data-excerpt="g3-r (cas 2381089-83-2) is a research analogue. confirm cas on the lot paper; store the lyophilized cake frozen until the protocol is ready.">
-  <div class="blog-card-img"><img src="/media/blog-topic/g3-r-metabolic-research-1.webp?v=183" alt="G3-R 10 mg research vial" width="600" height="600" loading="lazy" decoding="async" onerror="this.onerror=null;this.src='/media/blog-topic/g3-r-metabolic-research-1.png?v=183'"></div>
+  <div class="blog-card-img"><img src="/media/blog-topic/g3-r-metabolic-research-1.webp?v=184" alt="G3-R 10 mg research vial" width="600" height="600" loading="lazy" decoding="async" onerror="this.onerror=null;this.src='/media/blog-topic/g3-r-metabolic-research-1.png?v=184'"></div>
   <div class="blog-card-body">
     <span class="blog-tag">Research</span>
     <h3>G3-R Identity &amp; Storage</h3>

diff --git a/html/product-marquee.js b/html/product-marquee.js
@@ -55,7 +55,7 @@
     return c ? c.toUpperCase() : "RESEARCH COMPOUND";
   }
 
-  function vialImg(item){ if(item&&(item.gift||item.slug==='research-solvent')) return '/media/research-solvent.svg'; var slug=productSlug(item); var mg=((item&&item.mg)||'').toString().split(' ').join('').toLowerCase(); var v=(slug==='g3-r')?'183':'181'; if(mg){ return '/media/vial-'+slug+'-'+mg+'.png?v='+v; } return '/media/vial-'+slug+'.png?v='+v; }
+  function vialImg(item){ if(item&&(item.gift||item.slug==='research-solvent')) return '/media/research-solvent.svg'; var slug=productSlug(item); var mg=((item&&item.mg)||'').toString().split(' ').join('').toLowerCase(); var v=(slug==='g3-r')?'184':'181'; if(mg){ return '/media/vial-'+slug+'-'+mg+'.png?v='+v; } return '/media/vial-'+slug+'.png?v='+v; }
 
   /* The page's own addToCart knows nothing about strengths, so the line it just wrote says only "$62".
      Name the strength the card showed; a line that already names one is left alone. */

diff --git a/html/search-overlay.js b/html/search-overlay.js
@@ -38,7 +38,7 @@
       var q = u.indexOf("?");
       return (q === -1 ? u.replace(/\.webp$/, ".png") : u.slice(0, q).replace(/\.webp$/, ".png")) + "?v=181";
     }
-    return "/media/vial-" + slug + ".png?v=" + (slug === "g3-r" ? "183" : "181");
+    return "/media/vial-" + slug + ".png?v=" + (slug === "g3-r" ? "184" : "181");
   }
   function catalog(list) {
     return (list || []).filter(function (p) {

diff --git a/html/qty-upsell.js b/html/qty-upsell.js
@@ -110,7 +110,7 @@
     };
   }
   function fileFor(slug) {
-    return '/media/vial-' + slug + '.png?v=' + (slug === 'g3-r' ? '183' : '181');
+    return '/media/vial-' + slug + '.png?v=' + (slug === 'g3-r' ? '184' : '181');
   }
   function packImg(slug, q) {
     return {

diff --git a/VERSION.md b/VERSION.md
@@ -15,7 +15,7 @@ Codename: calculator-seo-finish
 - **Unchanged**: Homepage hero / Popular catalog / PDP split. Calculator arithmetic and existing GA (`reconstitution_calc`, `dilution_calc`, `tool_inquire`) kept. Card path remains CRM UMG authorize from v2.99b.
 - Tools CSS query `biolabs_style.css?v=404` (page-local styles; shared stylesheet not rewritten).
 - **Parallel tip (no new letter) — G3-R public name**: The former Retatrutide / R3TA listing is **G3-R** only. URL `/products/g3-r`; old paths `/products/retatrutide`, `/products/r3ta`, `/products/reta` 301 here. Alt / OG: `G3-R {dose} research vial`. Does not take the v2.99c letter from calculator-seo-finish. Quote remains v2.99d.
-- **G3-R visual lock**: Live catalog/PDP/qty/search/blog-card vial files show gold-band text **G3-R** (not R3TA / RETA / Retatrutide). **Indian must regenerate the official GLOW-chrome text-only master (band G3-R) before Soft-QA lock** — current PNGs are a storefront text swap on existing chrome (gold fill bar remains; 20 mg file is off-chrome cream label).
+- **G3-R visual lock**: Live GLOW-chrome vial (`vial-g3-r.png` / `.webp`, 10/20/50) gold-band text is **G3-R** (unified gold cap / BIO LABS chrome from the GLOW-70 master). Qty packs and search/blog thumbs match. Tip stays **v2.99c** (folded with calculator-seo-finish).
 
 ---
 

diff --git a/QA_TASKS.md b/QA_TASKS.md
@@ -70,4 +70,4 @@ from low-resolution thumbnails; the third was an artefact of the test tooling.
 | # | Rule | Owner | Status |
 |---|---|---|---|
 | C1 | Keep `id="faq"` on the Science FAQ section. CRM Site texts writes into that block. | pages | standing (infra, 2026-09-10) |
-| C2 | G3-R public rename (Yehuda lock 2026-09-19): live DOM alt after mg-picker must stay dose-aware (`G3-R 10 mg research vial` → `G3-R 20 mg` / `50 mg`). **Indian must regenerate GLOW-chrome vial (text-only master) with gold-band G3-R before Soft-QA lock** — live catalog/PDP/qty files no longer read R3TA/RETA/Retatrutide (storefront text-only patch + qty composites), but they are not Indian's locked master: catalog PNG still has the pre-existing gold fill bar; `vial-g3-r-20mg` is off-chrome cream label; PIL is not the GLOW-70 text-only pattern. | infra | open |
+| C2 | G3-R public rename (Yehuda lock 2026-09-19): live DOM alt after mg-picker / size chip must stay dose-aware (`G3-R 10 mg research vial` → `G3-R 20 mg` / `50 mg`). Live GLOW-chrome (`vial-g3-r.png` / `.webp` + 10/20/50) gold-band text is **G3-R** (cloned from GLOW-70 chrome; no R3TA/Retatrutide). Soft-QA: catalog + PDP + after strength chip. | infra | open |
